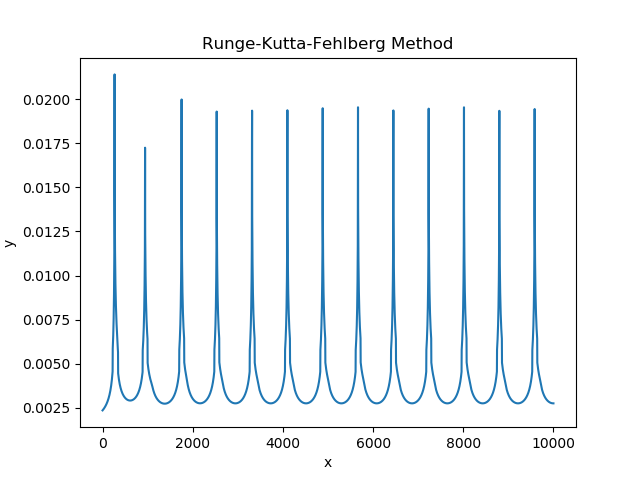
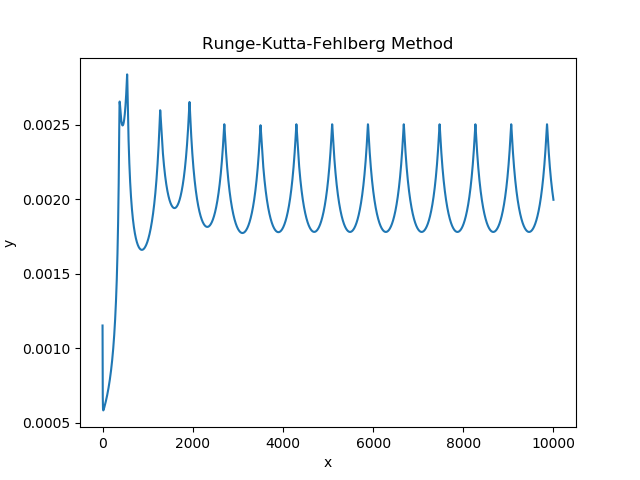
fixed bugs

diff --git a/continuous_exercise/04/rkf.py b/continuous_exercise/04/rkf.py
@@ -20,13 +20,13 @@ class ORG:
 
 class RKF:
 	def __init__(self, alpha, error, h, max_iter, x, y1, y2):
+		self.alpha = alpha
+		self.error = error
 		self.h = h
 		self.max_iter = max_iter
 		self.x = x
 		self.y1 = y1
 		self.y2 = y2
-		self.alpha = alpha
-		self.error = error
 
 	def fy1(self, y2):
 		return y2
@@ -35,43 +35,43 @@ class RKF:
 		return - 3 * y2 - 2 * y1 + math.cos(x)
 
 	def rkf_test(self, h):
-		a1 = self.fy1(self.y2)
-		a2 = self.fy2(self.x, self.y1, self.y2)
+		a1 = h * self.fy1(self.y2)
+		a2 = h * self.fy2(self.x, self.y1, self.y2)
 
-		b1 = self.fy1(self.y2 + a2 / 4)
-		b2 = self.fy2(self.x + h / 4, 
+		b1 = h * self.fy1(self.y2 + a2 / 4)
+		b2 = h * self.fy2(self.x + h / 4, 
 					  self.y1 + a1 / 4, 
 					  self.y2 + a2 / 4)
 
-		c1 = self.fy1(self.y2 + 3 * a2 / 32 + 9 * a2 / 32)
-		c2 = self.fy2(self.x + 3 * h / 8,
-					  self.y1 + 3 * a1 / 32 + 9 * a1 / 32,
-					  self.y2 + 3 * a2 / 32 + 9 * a2 / 32)
+		c1 = h * self.fy1(self.y2 + 3 * a2 / 32 + 9 * b2 / 32)
+		c2 = h * self.fy2(self.x + 3 * h / 8,
+					  self.y1 + 3 * a1 / 32 + 9 * b1 / 32,
+					  self.y2 + 3 * a2 / 32 + 9 * b2 / 32)
 
-		d1 = self.fy1(self.y2 + 1932 * a2 / 2197 - 7200 * b2 / 2197 + 7296 * c2 / 2197)
-		d2 = self.fy2(self.x + 12 * h / 13,
+		d1 = h * self.fy1(self.y2 + 1932 * a2 / 2197 - 7200 * b2 / 2197 + 7296 * c2 / 2197)
+		d2 = h * self.fy2(self.x + 12 * h / 13,
 					  self.y1 + 1932 * a1 / 2197 - 7200 * b1 / 2197 + 7296 * c1 / 2197,
 					  self.y2 + 1932 * a2 / 2197 - 7200 * b2 / 2197 + 7296 * c2 / 2197)
 
-		e1 = self.fy1(self.y2 + 439 * a2 / 216 - 8 * b2 + 3680 * c2 / 513 - 845 * d2 / 4104)
-		e2 = self.fy2(self.x + h,
+		e1 = h * self.fy1(self.y2 + 439 * a2 / 216 - 8 * b2 + 3680 * c2 / 513 - 845 * d2 / 4104)
+		e2 = h * self.fy2(self.x + h,
 					  self.y1 + 439 * a1 / 216 - 8 * b1 + 3680 * c1 / 513 - 845 * d1 / 4104,
 					  self.y2 + 439 * a2 / 216 - 8 * b2 + 3680 * c2 / 513 - 845 * d2 / 4104)
 
-		f1 = self.fy1(self.y2 - 8 * a1 / 27 + 2 * b2 - 3544 * c2 / 2565 + 1859 * d2 / 4104 - 11 * e2 / 40)
-		f2 = self.fy2(self.x + h / 2,
-					  self.y2 - 8 * a1 / 27 + 2 * b1 - 3544 * c1 / 2565 + 1859 * d1 / 4104 - 11 * e1 / 40,
+		f1 = h * self.fy1(self.y2 - 8 * a2 / 27 + 2 * b2 - 3544 * c2 / 2565 + 1859 * d2 / 4104 - 11 * e2 / 40)
+		f2 = h * self.fy2(self.x + h / 2,
+					  self.y1 - 8 * a1 / 27 + 2 * b1 - 3544 * c1 / 2565 + 1859 * d1 / 4104 - 11 * e1 / 40,
 					  self.y2 - 8 * a2 / 27 + 2 * b2 - 3544 * c2 / 2565 + 1859 * d2 / 4104 - 11 * e2 / 40)
-		rkf4y1 = self.y1 + h * (25 * a1 / 216 + 1408 * c1 / 2565 + 2197 * d1 / 4104 - e1 / 5)
-		rkf5y1 = self.y1 + h * (16 * a1 / 135 + 6656 * c1 / 12825 + 28561 * d1 / 56430 - 9 * e1 / 50 - 2 * f1 / 55)
-		rkf4y2 = self.y2 + h * (25 * a2 / 216 + 1408 * c2 / 2565 + 2197 * d2 / 4104 - e2 / 5)
-		rkf5y2 = self.y2 + h * (16 * a2 / 135 + 6656 * c2 / 12825 + 28561 * d2 / 56430 - 9 * e2 / 50 - 2 * f2 / 55)
+		rkf4y1 = self.y1 + (25 * a1 / 216 + 1408 * c1 / 2565 + 2197 * d1 / 4104 - e1 / 5)
+		rkf5y1 = self.y1 + (16 * a1 / 135 + 6656 * c1 / 12825 + 28561 * d1 / 56430 - 9 * e1 / 50 - 2 * f1 / 55)
+		rkf4y2 = self.y2 + (25 * a2 / 216 + 1408 * c2 / 2565 + 2197 * d2 / 4104 - e2 / 5)
+		rkf5y2 = self.y2 + (16 * a2 / 135 + 6656 * c2 / 12825 + 28561 * d2 / 56430 - 9 * e2 / 50 - 2 * f2 / 55)
 		return rkf4y1, rkf5y1, rkf4y2, rkf5y2
 
 	def rkf_step(self):
 		R = 1
-		h = self.h
-		pre_h = h
+		pre_h = self.h
+		h = pre_h
 		iters = 0
 		while R >= self.error:
 			y1, rkf5y1, y2, rkf5y2 = self.rkf_test(h)
@@ -79,10 +79,11 @@ class RKF:
 			R2 = abs(rkf5y2 - y2)
 			R = max(R1, R2)
 			pre_h = h
-			h = self.alpha * h * math.pow(self.error / R, 1.0 / 4.0)
+			h *= self.alpha
 			iters += 1
 			if iters > self.max_iter:
 				break
+		self.h = self.alpha * pre_h * math.pow(self.error / R, 1.0 / 4.0)
 		self.x = self.x + pre_h
 		self.y1 = y1
 		self.y2 = y2
@@ -101,9 +102,9 @@ class RKF:
 
 if __name__ == "__main__":
 	h_list, x_list, y_list = RKF(0.8, 0.0001, 0.1, 10000, 0, 0, 0)()
-	x_org, y_org = ORG(10000, 40)()
+	x_org, y_org = ORG(10000, 20)()
 	plt.plot(x_list, y_list)
-	plt.plot(x_org, y_org)
+	plt.plot(x_org, y_org, linestyle = "dotted")
 	plt.title("Runge-Kutta-Fehlberg Method")
 	plt.xlabel("x")
 	plt.ylabel("y")
